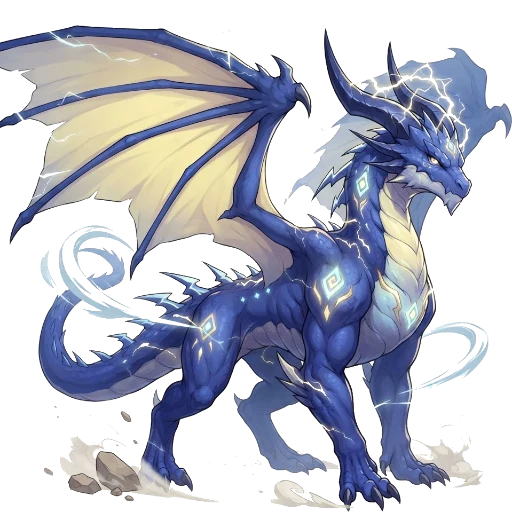
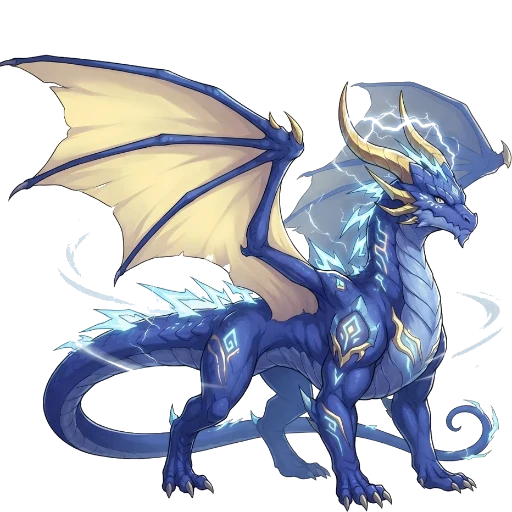
Repaint six beasts whose wings or tails were cut off by the frame
Cinderwhelp 2/3, Vinesnake 2, Voltdrake 2/3 and Zephyrling 2 were drawn past the edge of
Gemini's canvas; regenerated with the whole creature in frame.

diff --git a/sw.js b/sw.js
@@ -1,5 +1,5 @@
-// Wildbond offline support, build fc469cdee3. site.js fills in ART (path → size) and VERSION.
-const ART={"art/ashcub-1.jpg":52839,"art/ashcub-1.webp":53930,"art/ashcub-2.jpg":66344,"art/ashcub-2.webp":62608,"art/ashcub-3.jpg":74503,"art/ashcub-3.webp":72722,"art/barkcub-1.jpg":56886,"art/barkcub-1.webp":58442,"art/barkcub-2.jpg":63228,"art/barkcub-2.webp":59710,"art/barkcub-3.jpg":70403,"art/barkcub-3.webp":64816,"art/bg.jpg":136756,"art/bossalpha-1.jpg":56847,"art/bossalpha-1.webp":46442,"art/bossruin-1.jpg":75320,"art/bossruin-1.webp":69038,"art/bossthorn-1.jpg":65116,"art/bossthorn-1.webp":52786,"art/briarchick-1.jpg":64261,"art/briarchick-1.webp":59524,"art/briarchick-2.jpg":74344,"art/briarchick-2.webp":65904,"art/briarchick-3.jpg":72041,"art/briarchick-3.webp":67712,"art/cinderbull-1.jpg":47867,"art/cinderbull-1.webp":45926,"art/cinderbull-2.jpg":72526,"art/cinderbull-2.webp":65594,"art/cinderbull-3.jpg":90628,"art/cinderbull-3.webp":83388,"art/cinderwhelp-1.jpg":56692,"art/cinderwhelp-1.webp":58564,"art/cinderwhelp-2.jpg":77626,"art/cinderwhelp-2.webp":70640,"art/cinderwhelp-3.jpg":72889,"art/cinderwhelp-3.webp":64264,"art/clip-scene-cinderwhelp-wispkit.mp4":1686283,"art/clip-scene-gloomwing-shadeprowl.mp4":1740854,"art/clip-scene-griffling-ashcub.mp4":1647863,"art/clip-scene-lumikirin-cragshell.mp4":1757271,"art/cover-festival.jpg":71840,"art/cover-title.jpg":87010,"art/cragshell-1.jpg":57866,"art/cragshell-1.webp":51798,"art/cragshell-2.jpg":63667,"art/cragshell-2.webp":54692,"art/cragshell-3.jpg":64270,"art/cragshell-3.webp":59416,"art/flickerling-1.jpg":64405,"art/flickerling-1.webp":69122,"art/flickerling-2.jpg":68331,"art/flickerling-2.webp":75056,"art/flickerling-3.jpg":84302,"art/flickerling-3.webp":74590,"art/floor.jpg":167983,"art/glimmeel-1.jpg":61368,"art/glimmeel-1.webp":56848,"art/glimmeel-2.jpg":69148,"art/glimmeel-2.webp":57928,"art/glimmeel-3.jpg":71858,"art/glimmeel-3.webp":70172,"art/gloomwing-1.jpg":45022,"art/gloomwing-1.webp":47598,"art/gloomwing-2.jpg":52590,"art/gloomwing-2.webp":42488,"art/gloomwing-3.jpg":60021,"art/gloomwing-3.webp":54952,"art/griffling-1.jpg":57718,"art/griffling-1.webp":57264,"art/griffling-2.jpg":65616,"art/griffling-2.webp":65082,"art/griffling-3.jpg":73748,"art/griffling-3.webp":81716,"art/ironcalf-1.jpg":57727,"art/ironcalf-1.webp":56458,"art/ironcalf-2.jpg":69178,"art/ironcalf-2.webp":58802,"art/ironcalf-3.jpg":76219,"art/ironcalf-3.webp":69690,"art/lumikirin-1.jpg":62083,"art/lumikirin-1.webp":68702,"art/lumikirin-2.jpg":73899,"art/lumikirin-2.webp":78844,"art/lumikirin-3.jpg":70300,"art/lumikirin-3.webp":88226,"art/mossfawn-1.jpg":46658,"art/mossfawn-1.webp":42600,"art/mossfawn-2.jpg":68051,"art/mossfawn-2.webp":62812,"art/mossfawn-3.jpg":72482,"art/mossfawn-3.webp":72922,"art/nightglare-1.jpg":41670,"art/nightglare-1.webp":37732,"art/nightglare-2.jpg":59116,"art/nightglare-2.webp":53758,"art/nightglare-3.jpg":70344,"art/nightglare-3.webp":64772,"art/pebblegarg-1.jpg":47159,"art/pebblegarg-1.webp":45300,"art/pebblegarg-2.jpg":56104,"art/pebblegarg-2.webp":51704,"art/pebblegarg-3.jpg":70342,"art/pebblegarg-3.webp":73892,"art/quartzfoal-1.jpg":49852,"art/quartzfoal-1.webp":49534,"art/quartzfoal-2.jpg":63093,"art/quartzfoal-2.webp":58914,"art/quartzfoal-3.jpg":67109,"art/quartzfoal-3.webp":63742,"art/quillhawk-1.jpg":57149,"art/quillhawk-1.webp":71598,"art/quillhawk-2.jpg":69757,"art/quillhawk-2.webp":71636,"art/quillhawk-3.jpg":74637,"art/quillhawk-3.webp":79170,"art/rockling-1.jpg":53306,"art/rockling-1.webp":53060,"art/rockling-2.jpg":78782,"art/rockling-2.webp":70452,"art/rockling-3.jpg":69205,"art/rockling-3.webp":65364,"art/rootling-1.jpg":70125,"art/rootling-1.webp":73098,"art/rootling-2.jpg":97882,"art/rootling-2.webp":84610,"art/rootling-3.jpg":85147,"art/rootling-3.webp":74368,"art/salamite-1.jpg":54606,"art/salamite-1.webp":54884,"art/salamite-2.jpg":64017,"art/salamite-2.webp":59082,"art/salamite-3.jpg":73941,"art/salamite-3.webp":66852,"art/scene-cinderwhelp-wispkit.jpg":103159,"art/scene-gloomwing-shadeprowl.jpg":96814,"art/scene-griffling-ashcub.jpg":99324,"art/scene-lumikirin-cragshell.jpg":128038,"art/shadefoal-1.jpg":39299,"art/shadefoal-1.webp":36390,"art/shadefoal-2.jpg":64899,"art/shadefoal-2.webp":60118,"art/shadefoal-3.jpg":66565,"art/shadefoal-3.webp":55608,"art/shadeprowl-1.jpg":39156,"art/shadeprowl-1.webp":34774,"art/shadeprowl-2.jpg":48259,"art/shadeprowl-2.webp":43844,"art/shadeprowl-3.jpg":55686,"art/shadeprowl-3.webp":49062,"art/spinelet-1.jpg":60924,"art/spinelet-1.webp":56144,"art/spinelet-2.jpg":74089,"art/spinelet-2.webp":68488,"art/spinelet-3.jpg":84216,"art/spinelet-3.webp":73826,"art/sproutwolf-1.jpg":56680,"art/sproutwolf-1.webp":51584,"art/sproutwolf-2.jpg":61839,"art/sproutwolf-2.webp":58698,"art/sproutwolf-3.jpg":71762,"art/sproutwolf-3.webp":71522,"art/trillwing-1.jpg":53275,"art/trillwing-1.webp":60072,"art/trillwing-2.jpg":66171,"art/trillwing-2.webp":66948,"art/trillwing-3.jpg":66248,"art/trillwing-3.webp":74222,"art/vinesnake-1.jpg":62340,"art/vinesnake-1.webp":56486,"art/vinesnake-2.jpg":103523,"art/vinesnake-2.webp":89376,"art/vinesnake-3.jpg":73331,"art/vinesnake-3.webp":59904,"art/voltdrake-1.jpg":62324,"art/voltdrake-1.webp":58360,"art/voltdrake-2.jpg":77787,"art/voltdrake-2.webp":73110,"art/voltdrake-3.jpg":77233,"art/voltdrake-3.webp":75170,"art/voltgrub-1.jpg":59153,"art/voltgrub-1.webp":56180,"art/voltgrub-2.jpg":73321,"art/voltgrub-2.webp":69460,"art/voltgrub-3.jpg":77442,"art/voltgrub-3.webp":77946,"art/wispkit-1.jpg":55439,"art/wispkit-1.webp":59832,"art/wispkit-2.jpg":65407,"art/wispkit-2.webp":62112,"art/wispkit-3.jpg":65198,"art/wispkit-3.webp":76104,"art/zephyrling-1.jpg":54441,"art/zephyrling-1.webp":67016,"art/zephyrling-2.jpg":73003,"art/zephyrling-2.webp":68534,"art/zephyrling-3.jpg":73788,"art/zephyrling-3.webp":74194}, VERSION='fc469cdee3';
+// Wildbond offline support, build ad61c55489. site.js fills in ART (path → size) and VERSION.
+const ART={"art/ashcub-1.jpg":52839,"art/ashcub-1.webp":53930,"art/ashcub-2.jpg":66344,"art/ashcub-2.webp":62608,"art/ashcub-3.jpg":74503,"art/ashcub-3.webp":72722,"art/barkcub-1.jpg":56886,"art/barkcub-1.webp":58442,"art/barkcub-2.jpg":63228,"art/barkcub-2.webp":59710,"art/barkcub-3.jpg":70403,"art/barkcub-3.webp":64816,"art/bg.jpg":136756,"art/bossalpha-1.jpg":56847,"art/bossalpha-1.webp":46442,"art/bossruin-1.jpg":75320,"art/bossruin-1.webp":69038,"art/bossthorn-1.jpg":65116,"art/bossthorn-1.webp":52786,"art/briarchick-1.jpg":64261,"art/briarchick-1.webp":59524,"art/briarchick-2.jpg":74344,"art/briarchick-2.webp":65904,"art/briarchick-3.jpg":72041,"art/briarchick-3.webp":67712,"art/cinderbull-1.jpg":47867,"art/cinderbull-1.webp":45926,"art/cinderbull-2.jpg":72526,"art/cinderbull-2.webp":65594,"art/cinderbull-3.jpg":90628,"art/cinderbull-3.webp":83388,"art/cinderwhelp-1.jpg":56692,"art/cinderwhelp-1.webp":58564,"art/cinderwhelp-2.jpg":64709,"art/cinderwhelp-2.webp":60856,"art/cinderwhelp-3.jpg":51002,"art/cinderwhelp-3.webp":44628,"art/clip-scene-cinderwhelp-wispkit.mp4":1686283,"art/clip-scene-gloomwing-shadeprowl.mp4":1740854,"art/clip-scene-griffling-ashcub.mp4":1647863,"art/clip-scene-lumikirin-cragshell.mp4":1757271,"art/cover-festival.jpg":71840,"art/cover-title.jpg":87010,"art/cragshell-1.jpg":57866,"art/cragshell-1.webp":51798,"art/cragshell-2.jpg":63667,"art/cragshell-2.webp":54692,"art/cragshell-3.jpg":64270,"art/cragshell-3.webp":59416,"art/flickerling-1.jpg":64405,"art/flickerling-1.webp":69122,"art/flickerling-2.jpg":68331,"art/flickerling-2.webp":75056,"art/flickerling-3.jpg":84302,"art/flickerling-3.webp":74590,"art/floor.jpg":167983,"art/glimmeel-1.jpg":61368,"art/glimmeel-1.webp":56848,"art/glimmeel-2.jpg":69148,"art/glimmeel-2.webp":57928,"art/glimmeel-3.jpg":71858,"art/glimmeel-3.webp":70172,"art/gloomwing-1.jpg":45022,"art/gloomwing-1.webp":47598,"art/gloomwing-2.jpg":52590,"art/gloomwing-2.webp":42488,"art/gloomwing-3.jpg":60021,"art/gloomwing-3.webp":54952,"art/griffling-1.jpg":57718,"art/griffling-1.webp":57264,"art/griffling-2.jpg":65616,"art/griffling-2.webp":65082,"art/griffling-3.jpg":73748,"art/griffling-3.webp":81716,"art/ironcalf-1.jpg":57727,"art/ironcalf-1.webp":56458,"art/ironcalf-2.jpg":69178,"art/ironcalf-2.webp":58802,"art/ironcalf-3.jpg":76219,"art/ironcalf-3.webp":69690,"art/lumikirin-1.jpg":62083,"art/lumikirin-1.webp":68702,"art/lumikirin-2.jpg":73899,"art/lumikirin-2.webp":78844,"art/lumikirin-3.jpg":70300,"art/lumikirin-3.webp":88226,"art/mossfawn-1.jpg":46658,"art/mossfawn-1.webp":42600,"art/mossfawn-2.jpg":68051,"art/mossfawn-2.webp":62812,"art/mossfawn-3.jpg":72482,"art/mossfawn-3.webp":72922,"art/nightglare-1.jpg":41670,"art/nightglare-1.webp":37732,"art/nightglare-2.jpg":59116,"art/nightglare-2.webp":53758,"art/nightglare-3.jpg":70344,"art/nightglare-3.webp":64772,"art/pebblegarg-1.jpg":47159,"art/pebblegarg-1.webp":45300,"art/pebblegarg-2.jpg":56104,"art/pebblegarg-2.webp":51704,"art/pebblegarg-3.jpg":70342,"art/pebblegarg-3.webp":73892,"art/quartzfoal-1.jpg":49852,"art/quartzfoal-1.webp":49534,"art/quartzfoal-2.jpg":63093,"art/quartzfoal-2.webp":58914,"art/quartzfoal-3.jpg":67109,"art/quartzfoal-3.webp":63742,"art/quillhawk-1.jpg":57149,"art/quillhawk-1.webp":71598,"art/quillhawk-2.jpg":69757,"art/quillhawk-2.webp":71636,"art/quillhawk-3.jpg":74637,"art/quillhawk-3.webp":79170,"art/rockling-1.jpg":53306,"art/rockling-1.webp":53060,"art/rockling-2.jpg":78782,"art/rockling-2.webp":70452,"art/rockling-3.jpg":69205,"art/rockling-3.webp":65364,"art/rootling-1.jpg":70125,"art/rootling-1.webp":73098,"art/rootling-2.jpg":97882,"art/rootling-2.webp":84610,"art/rootling-3.jpg":85147,"art/rootling-3.webp":74368,"art/salamite-1.jpg":54606,"art/salamite-1.webp":54884,"art/salamite-2.jpg":64017,"art/salamite-2.webp":59082,"art/salamite-3.jpg":73941,"art/salamite-3.webp":66852,"art/scene-cinderwhelp-wispkit.jpg":103159,"art/scene-gloomwing-shadeprowl.jpg":96814,"art/scene-griffling-ashcub.jpg":99324,"art/scene-lumikirin-cragshell.jpg":128038,"art/shadefoal-1.jpg":39299,"art/shadefoal-1.webp":36390,"art/shadefoal-2.jpg":64899,"art/shadefoal-2.webp":60118,"art/shadefoal-3.jpg":66565,"art/shadefoal-3.webp":55608,"art/shadeprowl-1.jpg":39156,"art/shadeprowl-1.webp":34774,"art/shadeprowl-2.jpg":48259,"art/shadeprowl-2.webp":43844,"art/shadeprowl-3.jpg":55686,"art/shadeprowl-3.webp":49062,"art/spinelet-1.jpg":60924,"art/spinelet-1.webp":56144,"art/spinelet-2.jpg":74089,"art/spinelet-2.webp":68488,"art/spinelet-3.jpg":84216,"art/spinelet-3.webp":73826,"art/sproutwolf-1.jpg":56680,"art/sproutwolf-1.webp":51584,"art/sproutwolf-2.jpg":61839,"art/sproutwolf-2.webp":58698,"art/sproutwolf-3.jpg":71762,"art/sproutwolf-3.webp":71522,"art/trillwing-1.jpg":53275,"art/trillwing-1.webp":60072,"art/trillwing-2.jpg":66171,"art/trillwing-2.webp":66948,"art/trillwing-3.jpg":66248,"art/trillwing-3.webp":74222,"art/vinesnake-1.jpg":62340,"art/vinesnake-1.webp":56486,"art/vinesnake-2.jpg":63878,"art/vinesnake-2.webp":65256,"art/vinesnake-3.jpg":73331,"art/vinesnake-3.webp":59904,"art/voltdrake-1.jpg":62324,"art/voltdrake-1.webp":58360,"art/voltdrake-2.jpg":67995,"art/voltdrake-2.webp":62550,"art/voltdrake-3.jpg":74851,"art/voltdrake-3.webp":78034,"art/voltgrub-1.jpg":59153,"art/voltgrub-1.webp":56180,"art/voltgrub-2.jpg":73321,"art/voltgrub-2.webp":69460,"art/voltgrub-3.jpg":77442,"art/voltgrub-3.webp":77946,"art/wispkit-1.jpg":55439,"art/wispkit-1.webp":59832,"art/wispkit-2.jpg":65407,"art/wispkit-2.webp":62112,"art/wispkit-3.jpg":65198,"art/wispkit-3.webp":76104,"art/zephyrling-1.jpg":54441,"art/zephyrling-1.webp":67016,"art/zephyrling-2.jpg":60896,"art/zephyrling-2.webp":66608,"art/zephyrling-3.jpg":73788,"art/zephyrling-3.webp":74194}, VERSION='ad61c55489';
 const PAGE='wb-page', FILES='wb-art', FONTS='wb-fonts';
 const scope=new URL(self.registration.scope);
 const abs=p=>new URL(p,scope).href;
